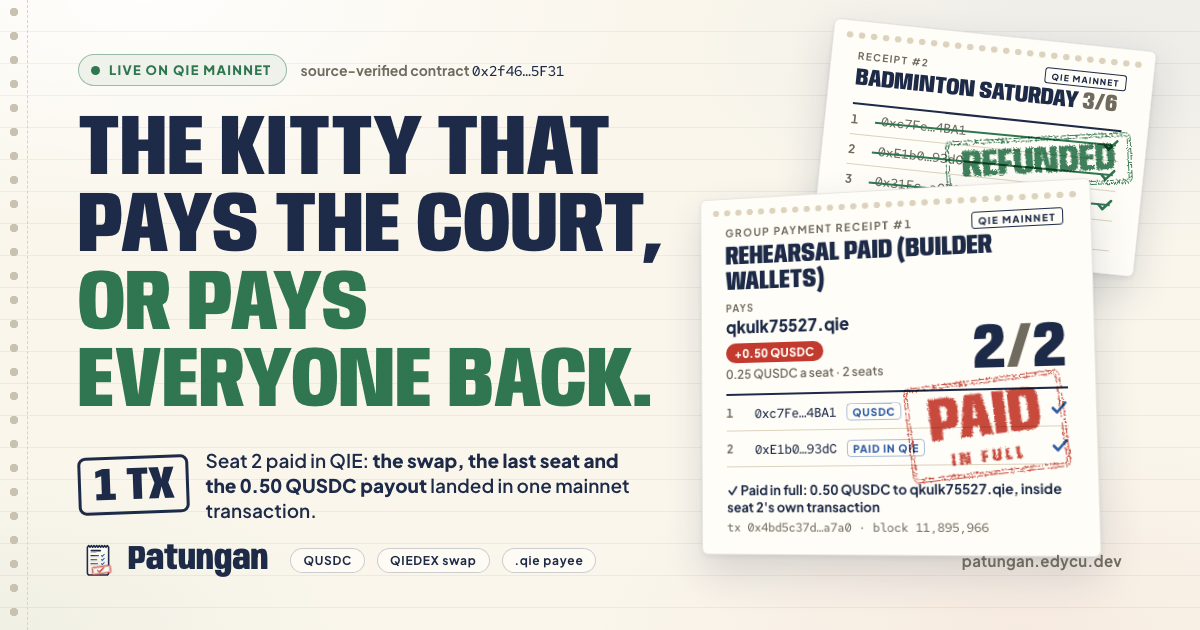
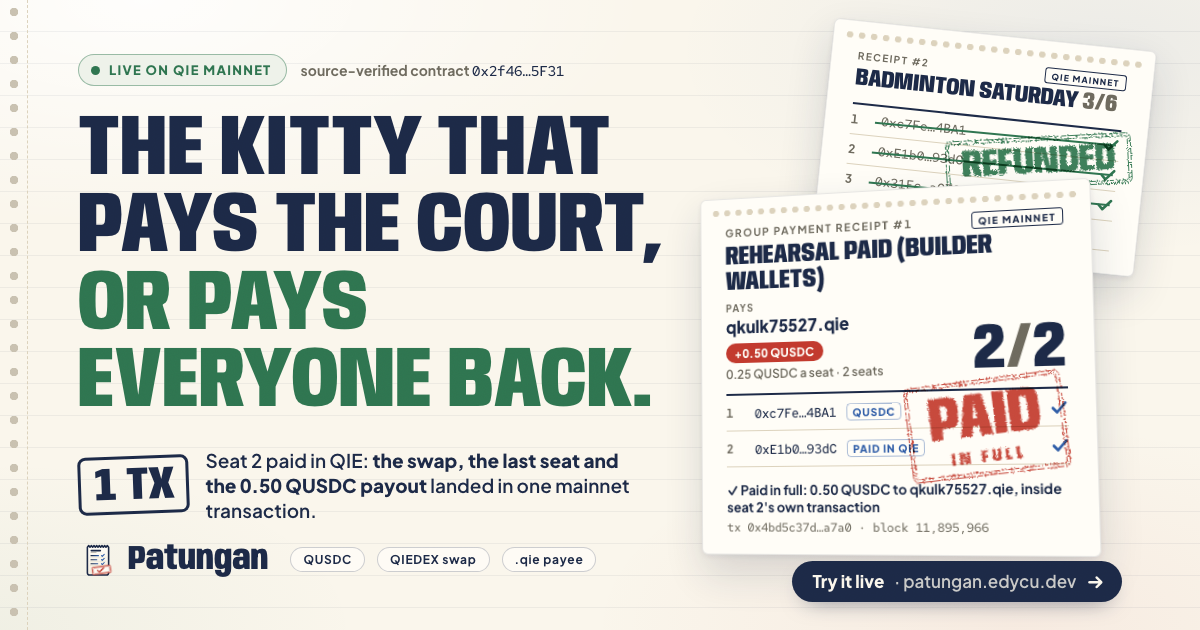
feat(web): social card gets a 'Try it live' call to action; landing title 48 chars (was 63)

Changed region(s): [[0.6475, 0.8746, 0.9558, 0.9952], [0.2467, 0.8444, 0.4008, 0.9349], [0.4317, 0.8444, 0.4933, 0.9349]]

diff --git a/web/index.html b/web/index.html
@@ -3,23 +3,23 @@
 <head>
 <meta charset="UTF-8" />
 <meta name="viewport" content="width=device-width, initial-scale=1" />
-<title>Patungan · the kitty that pays the court, or pays everyone back</title>
+<title>Patungan · pays the court, or pays everyone back</title>
 <meta name="description" content="Group payments with a deadline, live on QIE mainnet: the last seat pays the payee in the same transaction, and a missed deadline refunds everyone." />
 <meta name="author" content="Edy Cu Tjong" />
 <meta name="theme-color" content="#FAF6EC" />
-<meta property="og:title" content="Patungan · the kitty that pays the court, or pays everyone back" />
+<meta property="og:title" content="Patungan · pays the court, or pays everyone back" />
 <meta property="og:description" content="The last seat pays the payee in the same transaction. A missed deadline refunds everyone. Source-verified on QIE mainnet." />
 <meta property="og:type" content="website" />
 <meta property="og:site_name" content="Patungan" />
 <meta property="og:url" content="https://patungan.edycu.dev/" />
-<meta property="og:image" content="https://patungan.edycu.dev/og.png?v=20261114r3" />
+<meta property="og:image" content="https://patungan.edycu.dev/og.png?v=20261115cta" />
 <meta property="og:image:width" content="1200" />
 <meta property="og:image:height" content="630" />
 <meta property="og:image:alt" content="The kitty that pays the court, or pays everyone back: pool #1's real QIE mainnet receipt, two seats stamped PAID IN FULL with 0.50 QUSDC to qkulk75527.qie and its tx 0x4bd5c37d…a7a0, in front of pool #2's receipt stamped REFUNDED (builder wallets)" />
 <meta name="twitter:card" content="summary_large_image" />
-<meta name="twitter:title" content="Patungan · the kitty that pays the court, or pays everyone back" />
+<meta name="twitter:title" content="Patungan · pays the court, or pays everyone back" />
 <meta name="twitter:description" content="The last seat pays the payee in the same transaction. A missed deadline refunds everyone." />
-<meta name="twitter:image" content="https://patungan.edycu.dev/og.png?v=20261114r3" />
+<meta name="twitter:image" content="https://patungan.edycu.dev/og.png?v=20261115cta" />
 <meta name="twitter:creator" content="@edycutjong" />
 <link rel="icon" href="/favicon.ico" sizes="32x32" />
 <link rel="icon" type="image/svg+xml" href="/icon.svg" />

diff --git a/web/app.html b/web/app.html
@@ -10,14 +10,14 @@
     <meta property="og:description" content="The last seat pays the payee in the same transaction. A missed deadline refunds everyone. Live on QIE mainnet." />
     <meta property="og:type" content="website" />
     <meta property="og:site_name" content="Patungan" />
-    <meta property="og:image" content="https://patungan.edycu.dev/og.png?v=20261114r3" />
+    <meta property="og:image" content="https://patungan.edycu.dev/og.png?v=20261115cta" />
     <meta property="og:image:width" content="1200" />
     <meta property="og:image:height" content="630" />
     <meta property="og:image:alt" content="The kitty that pays the court, or pays everyone back: pool #1's real QIE mainnet receipt, two seats stamped PAID IN FULL with 0.50 QUSDC to qkulk75527.qie and its tx 0x4bd5c37d…a7a0, in front of pool #2's receipt stamped REFUNDED (builder wallets)" />
     <meta name="twitter:card" content="summary_large_image" />
     <meta name="twitter:title" content="Patungan · group payments on QIE" />
     <meta name="twitter:description" content="The last seat pays the payee in the same transaction. A missed deadline refunds everyone." />
-    <meta name="twitter:image" content="https://patungan.edycu.dev/og.png?v=20261114r3" />
+    <meta name="twitter:image" content="https://patungan.edycu.dev/og.png?v=20261115cta" />
     <meta name="twitter:creator" content="@edycutjong" />
     <link rel="icon" href="/favicon.ico" sizes="32x32" />
     <link rel="icon" type="image/svg+xml" href="/icon.svg" />

diff --git a/web/judge.html b/web/judge.html
@@ -10,14 +10,14 @@
 <meta property="og:type" content="website" />
 <meta property="og:site_name" content="Patungan" />
 <meta property="og:url" content="https://patungan.edycu.dev/judge" />
-<meta property="og:image" content="https://patungan.edycu.dev/og.png?v=20261114r3" />
+<meta property="og:image" content="https://patungan.edycu.dev/og.png?v=20261115cta" />
 <meta property="og:image:width" content="1200" />
 <meta property="og:image:height" content="630" />
 <meta property="og:image:alt" content="The kitty that pays the court, or pays everyone back: pool #1's real QIE mainnet receipt, two seats stamped PAID IN FULL with 0.50 QUSDC to qkulk75527.qie and its tx 0x4bd5c37d…a7a0, in front of pool #2's receipt stamped REFUNDED (builder wallets)" />
 <meta name="twitter:card" content="summary_large_image" />
 <meta name="twitter:title" content="Patungan · for judges" />
 <meta name="twitter:description" content="The last seat pays the seller in the same transaction; a missed deadline refunds everyone. Live on QIE mainnet." />
-<meta name="twitter:image" content="https://patungan.edycu.dev/og.png?v=20261114r3" />
+<meta name="twitter:image" content="https://patungan.edycu.dev/og.png?v=20261115cta" />
 <meta name="twitter:creator" content="@edycutjong" />
 <link rel="icon" href="/favicon.ico" sizes="32x32" />
 <link rel="icon" type="image/svg+xml" href="/icon.svg" />

diff --git a/web/public/pitch/index.html b/web/public/pitch/index.html
@@ -17,14 +17,14 @@
 <meta property="og:type" content="website" />
 <meta property="og:site_name" content="Patungan" />
 <meta property="og:url" content="https://patungan.edycu.dev/pitch/" />
-<meta property="og:image" content="https://patungan.edycu.dev/og.png?v=20261114r3" />
+<meta property="og:image" content="https://patungan.edycu.dev/og.png?v=20261115cta" />
 <meta property="og:image:width" content="1200" />
 <meta property="og:image:height" content="630" />
 <meta property="og:image:alt" content="The kitty that pays the court, or pays everyone back: pool #1's real QIE mainnet receipt, two seats stamped PAID IN FULL with 0.50 QUSDC to qkulk75527.qie and its tx 0x4bd5c37d…a7a0, in front of pool #2's receipt stamped REFUNDED (builder wallets)" />
 <meta name="twitter:card" content="summary_large_image" />
 <meta name="twitter:title" content="Patungan · pitch deck" />
 <meta name="twitter:description" content="The last seat pays the payee in the same transaction. A missed deadline refunds everyone." />
-<meta name="twitter:image" content="https://patungan.edycu.dev/og.png?v=20261114r3" />
+<meta name="twitter:image" content="https://patungan.edycu.dev/og.png?v=20261115cta" />
 <meta name="twitter:creator" content="@edycutjong" />
 <meta name="theme-color" content="#FAF6EC" />
 <link rel="icon" href="/favicon.ico" sizes="32x32" />
